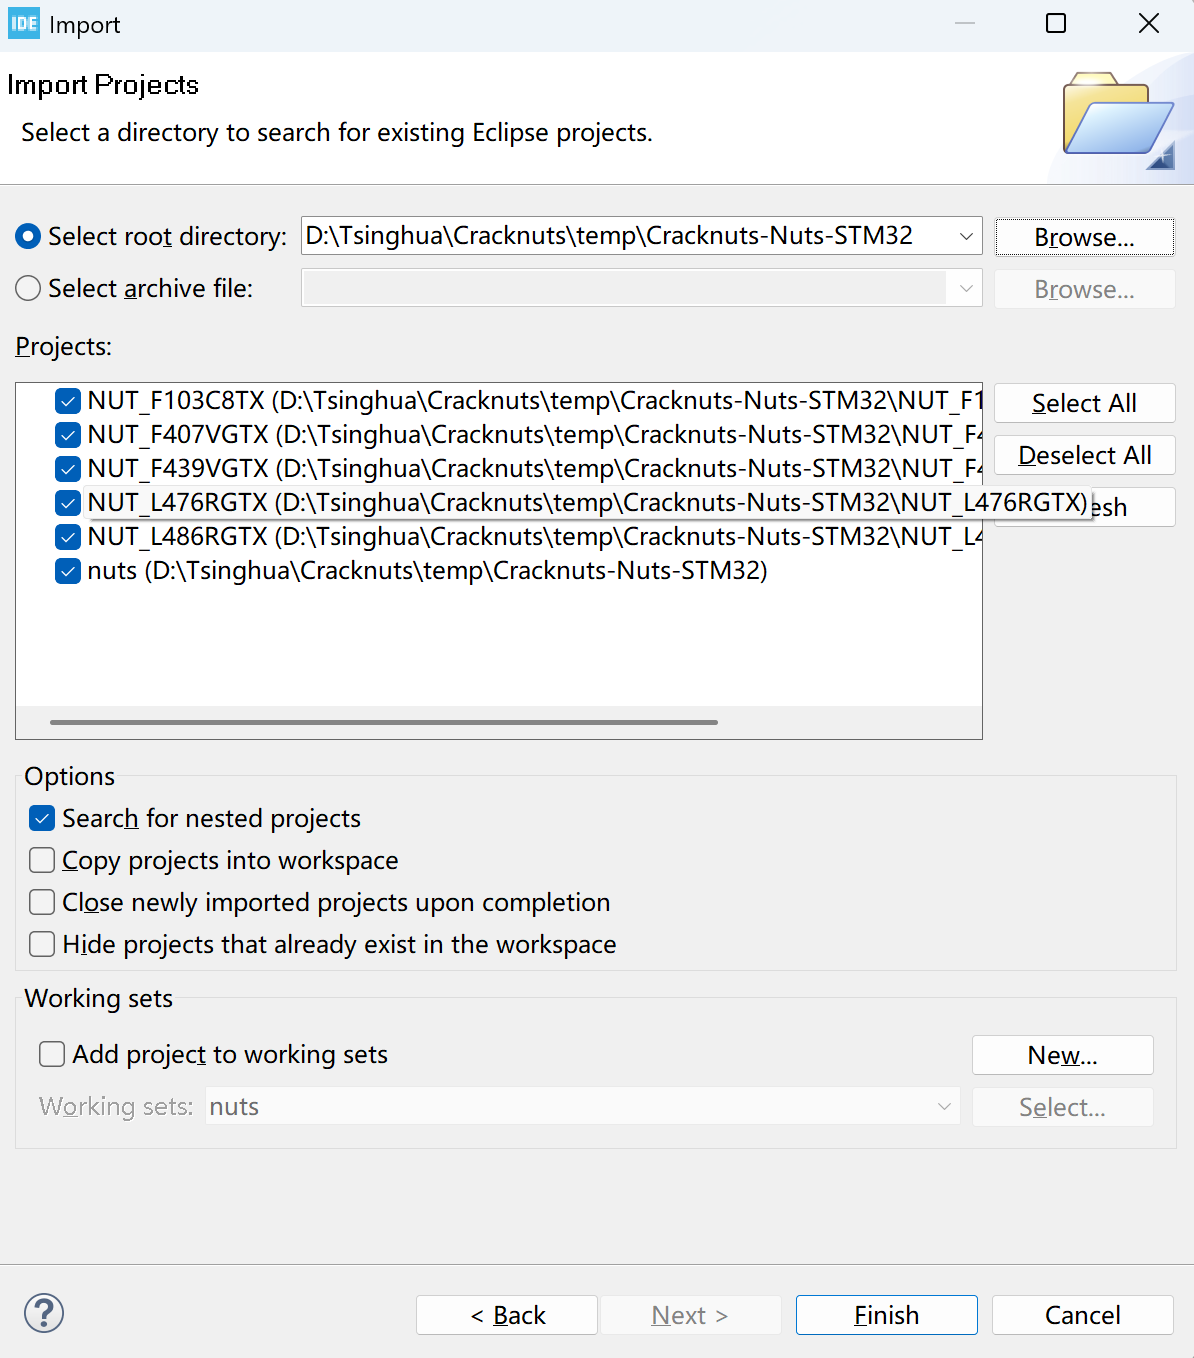
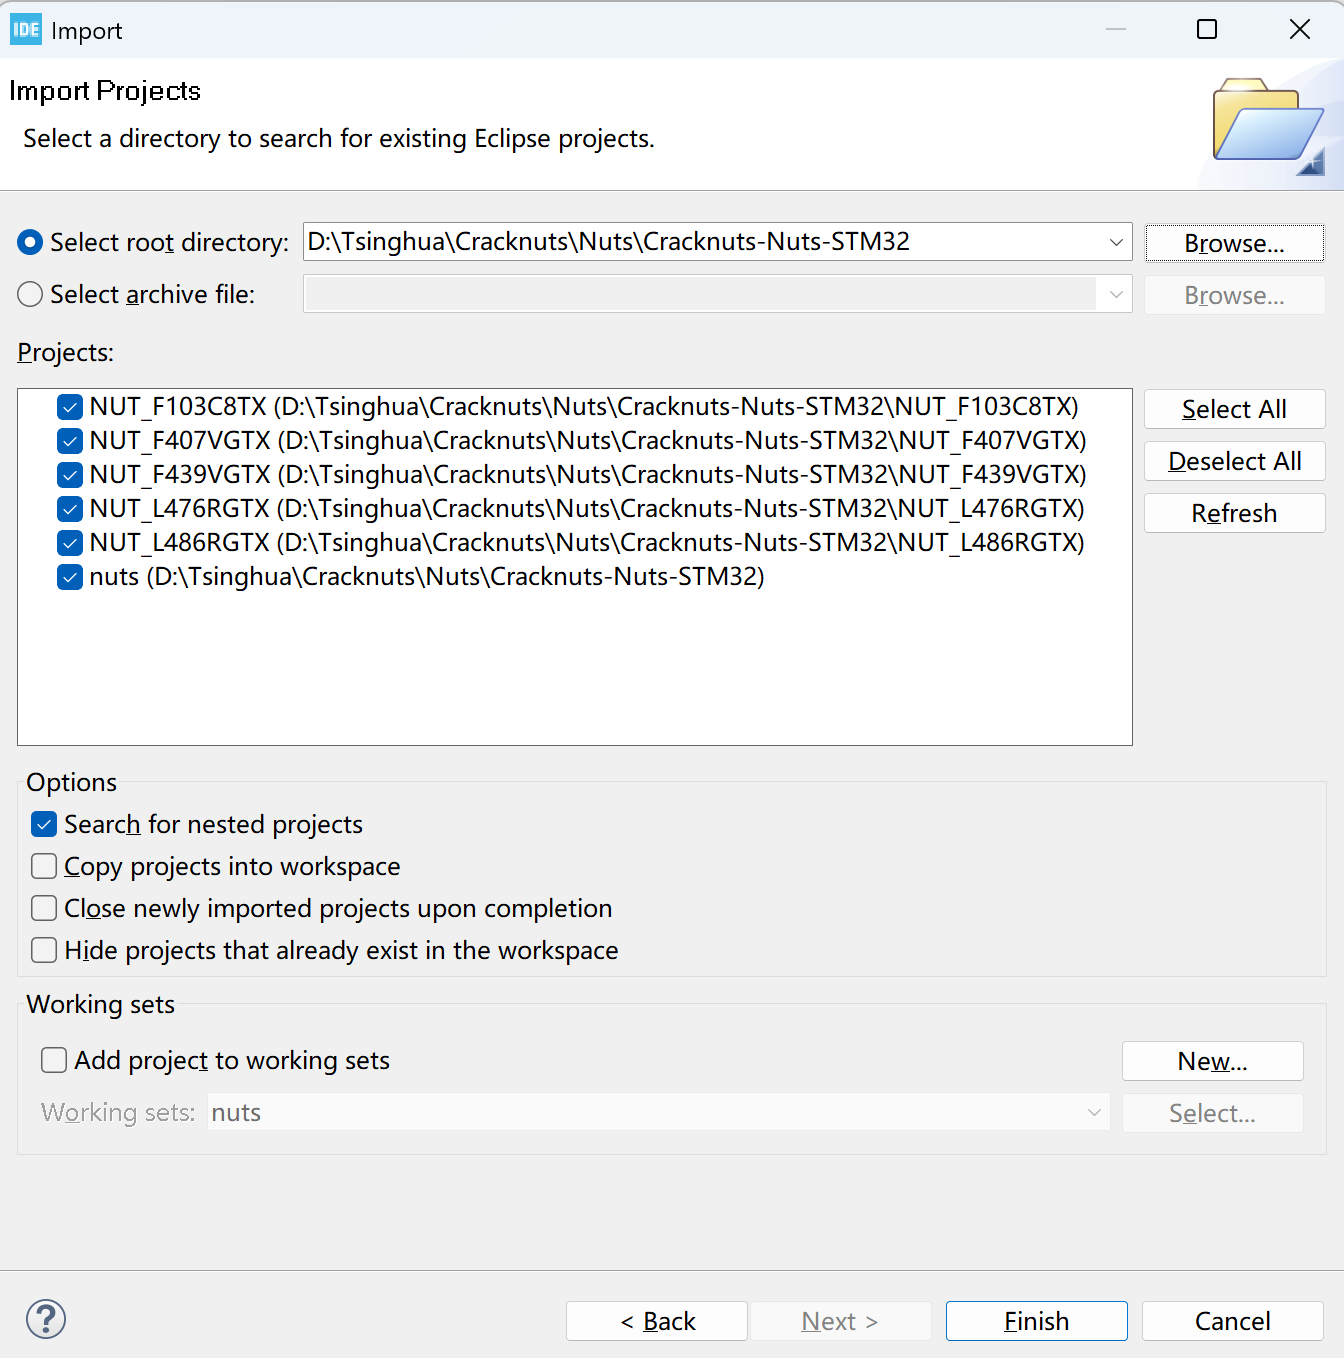
rename parent folder to repo name

diff --git a/README.md b/README.md
@@ -57,7 +57,7 @@ NutsLib 模块旨在为Nuts（被测芯片）与 Cracker（测试设备）提供
 2. STM32CubeIDE导入工程
 
 
-菜单栏-文件-导入（或在空白处右键选择导入）：
+菜单栏-文件-导入（或在空白处右键选择导入）-已有项目导入到工作区：
 
 ![](figure/import-page.png)
 
